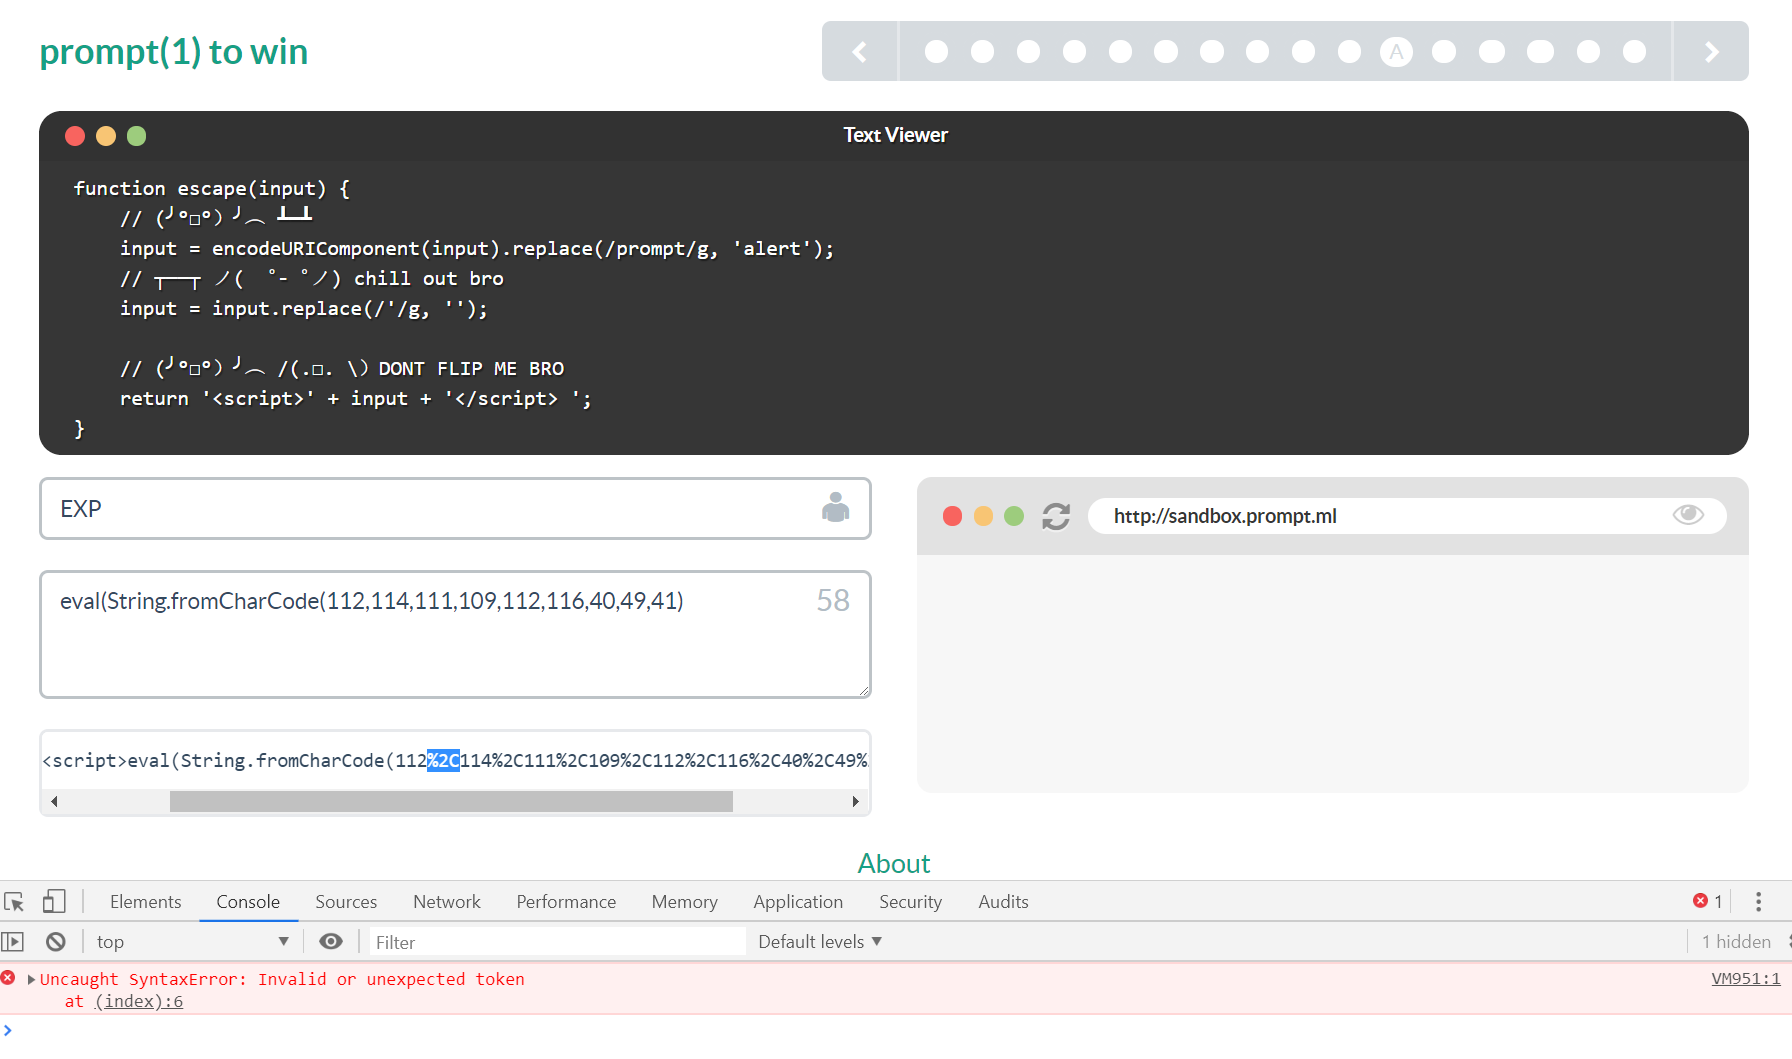
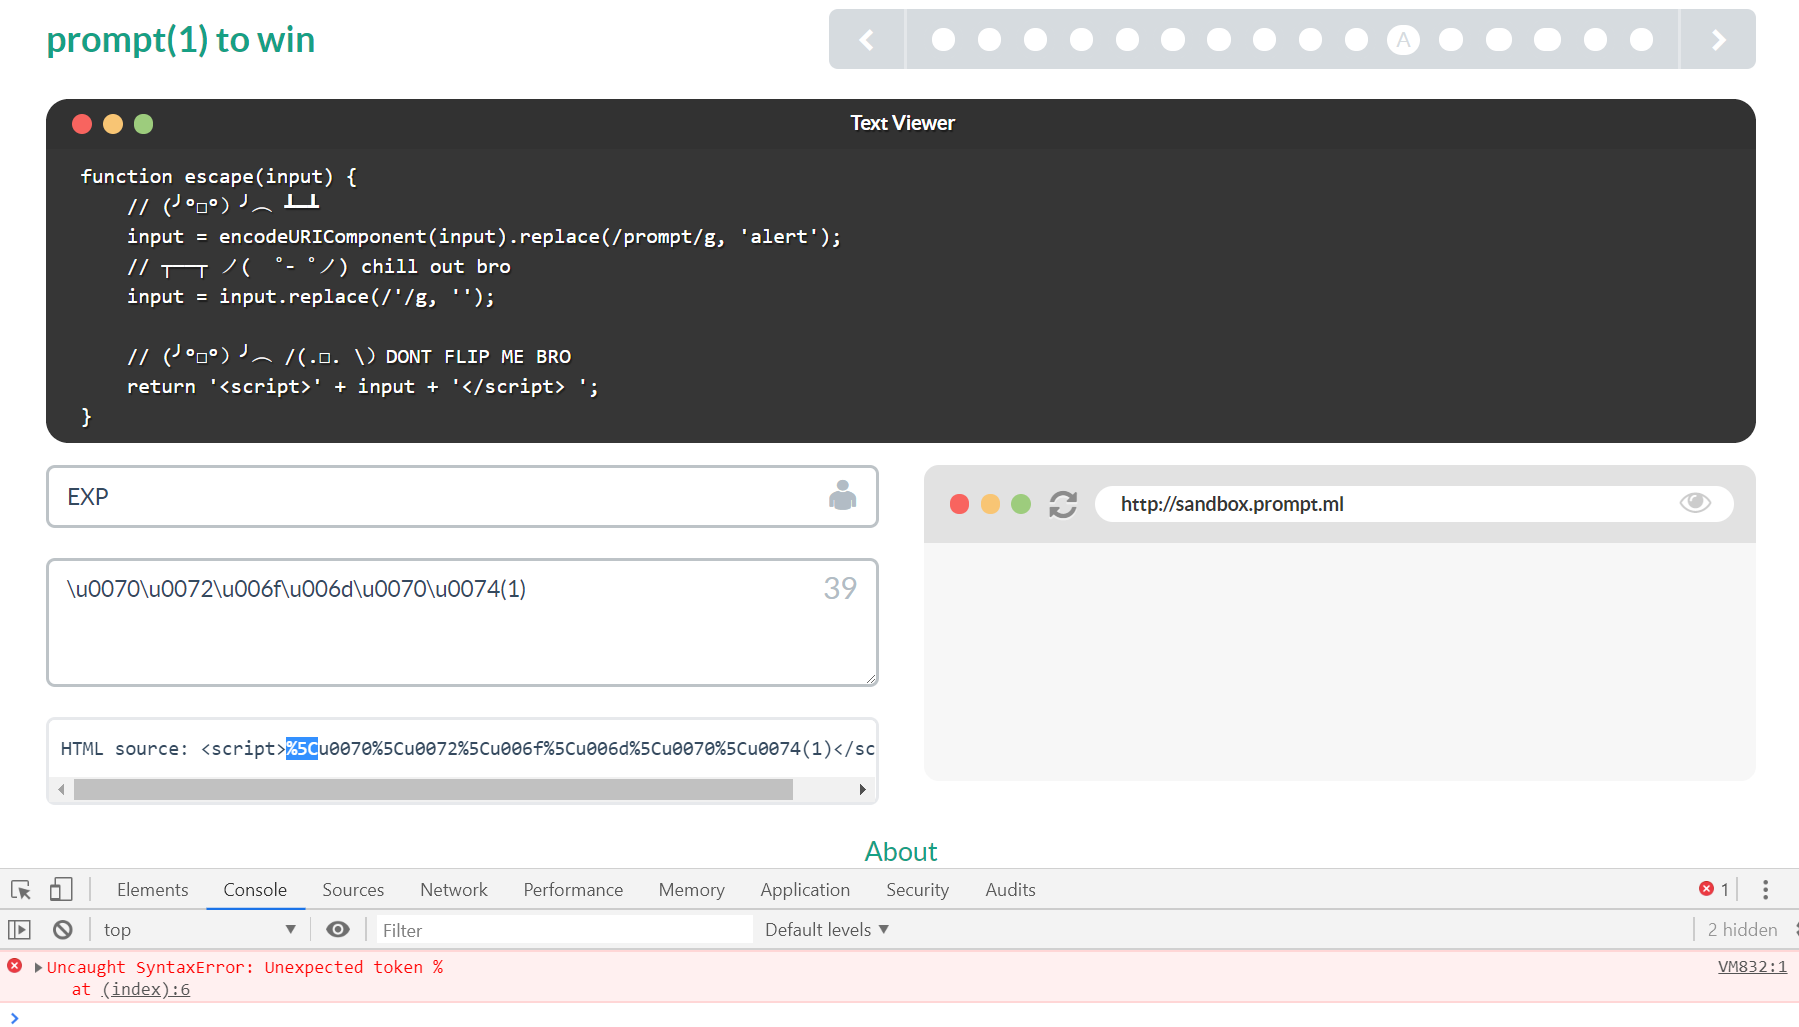
Level A - (╯°□°）╯︵ ┻━┻

diff --git a/index.html b/index.html
@@ -896,7 +896,10 @@
        <td>Level 0A</td> 
        <td><a target="_blank" href="http://prompt.ml/10">(╯°□°）╯︵ ┻━┻</a></td> 
        <td><a target="_blank" href="https://github.com/lyy289065406/CTF-Solving-Reports/tree/master/prompt/Level%2010%20-%20%28%E2%95%AF%C2%B0%E2%96%A1%C2%B0%EF%BC%89%E2%95%AF%EF%B8%B5%20%E2%94%BB%E2%94%81%E2%94%BB">Solving Report</a></td> 
-       <td><a target="_blank" href="https://github.com/lyy289065406/CTF-Solving-Reports/tree/master/prompt/Level%2010%20-%20%28%E2%95%AF%C2%B0%E2%96%A1%C2%B0%EF%BC%89%E2%95%AF%EF%B8%B5%20%E2%94%BB%E2%94%81%E2%94%BB/payload.js">Payload</a></td> 
+       <td>
+         <a target="_blank" href="https://github.com/lyy289065406/CTF-Solving-Reports/tree/master/prompt/Level%2010%20-%20%28%E2%95%AF%C2%B0%E2%96%A1%C2%B0%EF%BC%89%E2%95%AF%EF%B8%B5%20%E2%94%BB%E2%94%81%E2%94%BB/payload-1.js">Payload-1</a><br/>
+         <a target="_blank" href="https://github.com/lyy289065406/CTF-Solving-Reports/tree/master/prompt/Level%2010%20-%20%28%E2%95%AF%C2%B0%E2%96%A1%C2%B0%EF%BC%89%E2%95%AF%EF%B8%B5%20%E2%94%BB%E2%94%81%E2%94%BB/payload-2.js">Payload-2</a>
+       </td> 
       </tr> 
       <tr> 
        <td>Level 0B</td> 

diff --git a/prompt/Level 10 - (╯°□°）╯︵ ┻━┻/payload-1.js b/prompt/Level 10 - (╯°□°）╯︵ ┻━┻/payload-1.js
@@ -1,0 +1,1 @@
+eval(String.fromCharCode(112).concat(String.fromCharCode(114)).concat(String.fromCharCode(111)).concat(String.fromCharCode(109)).concat(String.fromCharCode(112)).concat(String.fromCharCode(116)).concat(String.fromCharCode(40)).concat(String.fromCharCode(49)).concat(String.fromCharCode(41)))

diff --git a/prompt/Level 10 - (╯°□°）╯︵ ┻━┻/README.md b/prompt/Level 10 - (╯°□°）╯︵ ┻━┻/README.md
@@ -31,18 +31,29 @@ function escape(input) {
 ------------
 
 
-我起初期望使用这个 payload  `eval(String.fromCharCode(112,114,111,109,112,116,40,49,41)` 绕过 `replace` 以在前端直接构造 `prompt(1)` ，但是 `,` 被 `encodeURIComponent` 转码成了 `%2C` ，失败。。
+我最开始想到，JS 解析器在解析标识符名称时（如函数名、属性名）等，若遇到 Unicode 会直接进行解码，并使得标识符依旧生效。于是构造了这个 payload `\u0070\u0072\u006f\u006d\u0070\u0074(1)` 绕过 `replace` 以在前端直接构造 `prompt(1)` , 但是 `\` 被 `encodeURIComponent` 转码成了 `%5C` ，失败。。
 
 ![](https://github.com/lyy289065406/CTF-Solving-Reports/blob/master/prompt/Level%2010%20-%20%28%E2%95%AF%C2%B0%E2%96%A1%C2%B0%EF%BC%89%E2%95%AF%EF%B8%B5%20%E2%94%BB%E2%94%81%E2%94%BB/imgs/01.png)
 
-后来又想到，JS 解析器在解析标识符名称时（如函数名、属性名）等，若遇到 Unicode 会直接进行解码，并使得标识符依旧生效。于是又构造了这个 payload `\u0070\u0072\u006f\u006d\u0070\u0074(1)` 绕过 `replace` , 但是 `\` 被 `encodeURIComponent` 转码成了 `%5C` ，还是失败。。
+后来又想到 `eval` 函数，于是构造这个 payload  `eval(String.fromCharCode(112,114,111,109,112,116,40,49,41))` 
+
+期望可以绕过 `replace` 逐字符构造 `prompt(1)` ，但是 `,` 被 `encodeURIComponent` 转码成了 `%2C` ，还是失败。。
 
 ![](https://github.com/lyy289065406/CTF-Solving-Reports/blob/master/prompt/Level%2010%20-%20%28%E2%95%AF%C2%B0%E2%96%A1%C2%B0%EF%BC%89%E2%95%AF%EF%B8%B5%20%E2%94%BB%E2%94%81%E2%94%BB/imgs/02.png)
 
+不过转念一想，既然不能用逗号 `,` 拼接字符，那么直接用 `concat` 函数就可以了。
+
+于是重新构造 payload 如下，完成挑战：
+
+```
+eval(String.fromCharCode(112).concat(String.fromCharCode(114)).concat(String.fromCharCode(111)).concat(String.fromCharCode(109)).concat(String.fromCharCode(112)).concat(String.fromCharCode(116)).concat(String.fromCharCode(40)).concat(String.fromCharCode(49)).concat(String.fromCharCode(41)))
+```
+
+![](https://github.com/lyy289065406/CTF-Solving-Reports/blob/master/prompt/Level%2010%20-%20%28%E2%95%AF%C2%B0%E2%96%A1%C2%B0%EF%BC%89%E2%95%AF%EF%B8%B5%20%E2%94%BB%E2%94%81%E2%94%BB/imgs/03.png)
 
 ------------
 
-其实这题想多了反而复杂，**可以利用题目自身的逻辑过滤去绕过**。
+其实这题想多了反而复杂，有一个更简单的方法是 **利用题目自身的逻辑过滤去绕过**。
 
 题目首先把 `prompt` 替换成 `alert` ， 然后又把单引号 `'` 替换成空。
 
@@ -59,7 +70,7 @@ function escape(input) {
 
 因为这些字符本身属于保留字符，不会被 `encodeURIComponent` 编码；其次 `prompt` 中间有单引号 `'` 的时候，也不满足 `replace` 的条件；最后题目还很贴心地帮我们把所有单引号 `'` 删掉了，，，，所以有时其实真是我们想太多了。。。(╯°□°）╯︵ ┻━┻
 
-![](https://github.com/lyy289065406/CTF-Solving-Reports/blob/master/prompt/Level%2010%20-%20%28%E2%95%AF%C2%B0%E2%96%A1%C2%B0%EF%BC%89%E2%95%AF%EF%B8%B5%20%E2%94%BB%E2%94%81%E2%94%BB/imgs/03.png)
+![](https://github.com/lyy289065406/CTF-Solving-Reports/blob/master/prompt/Level%2010%20-%20%28%E2%95%AF%C2%B0%E2%96%A1%C2%B0%EF%BC%89%E2%95%AF%EF%B8%B5%20%E2%94%BB%E2%94%81%E2%94%BB/imgs/04.png)
 
 ------
 
